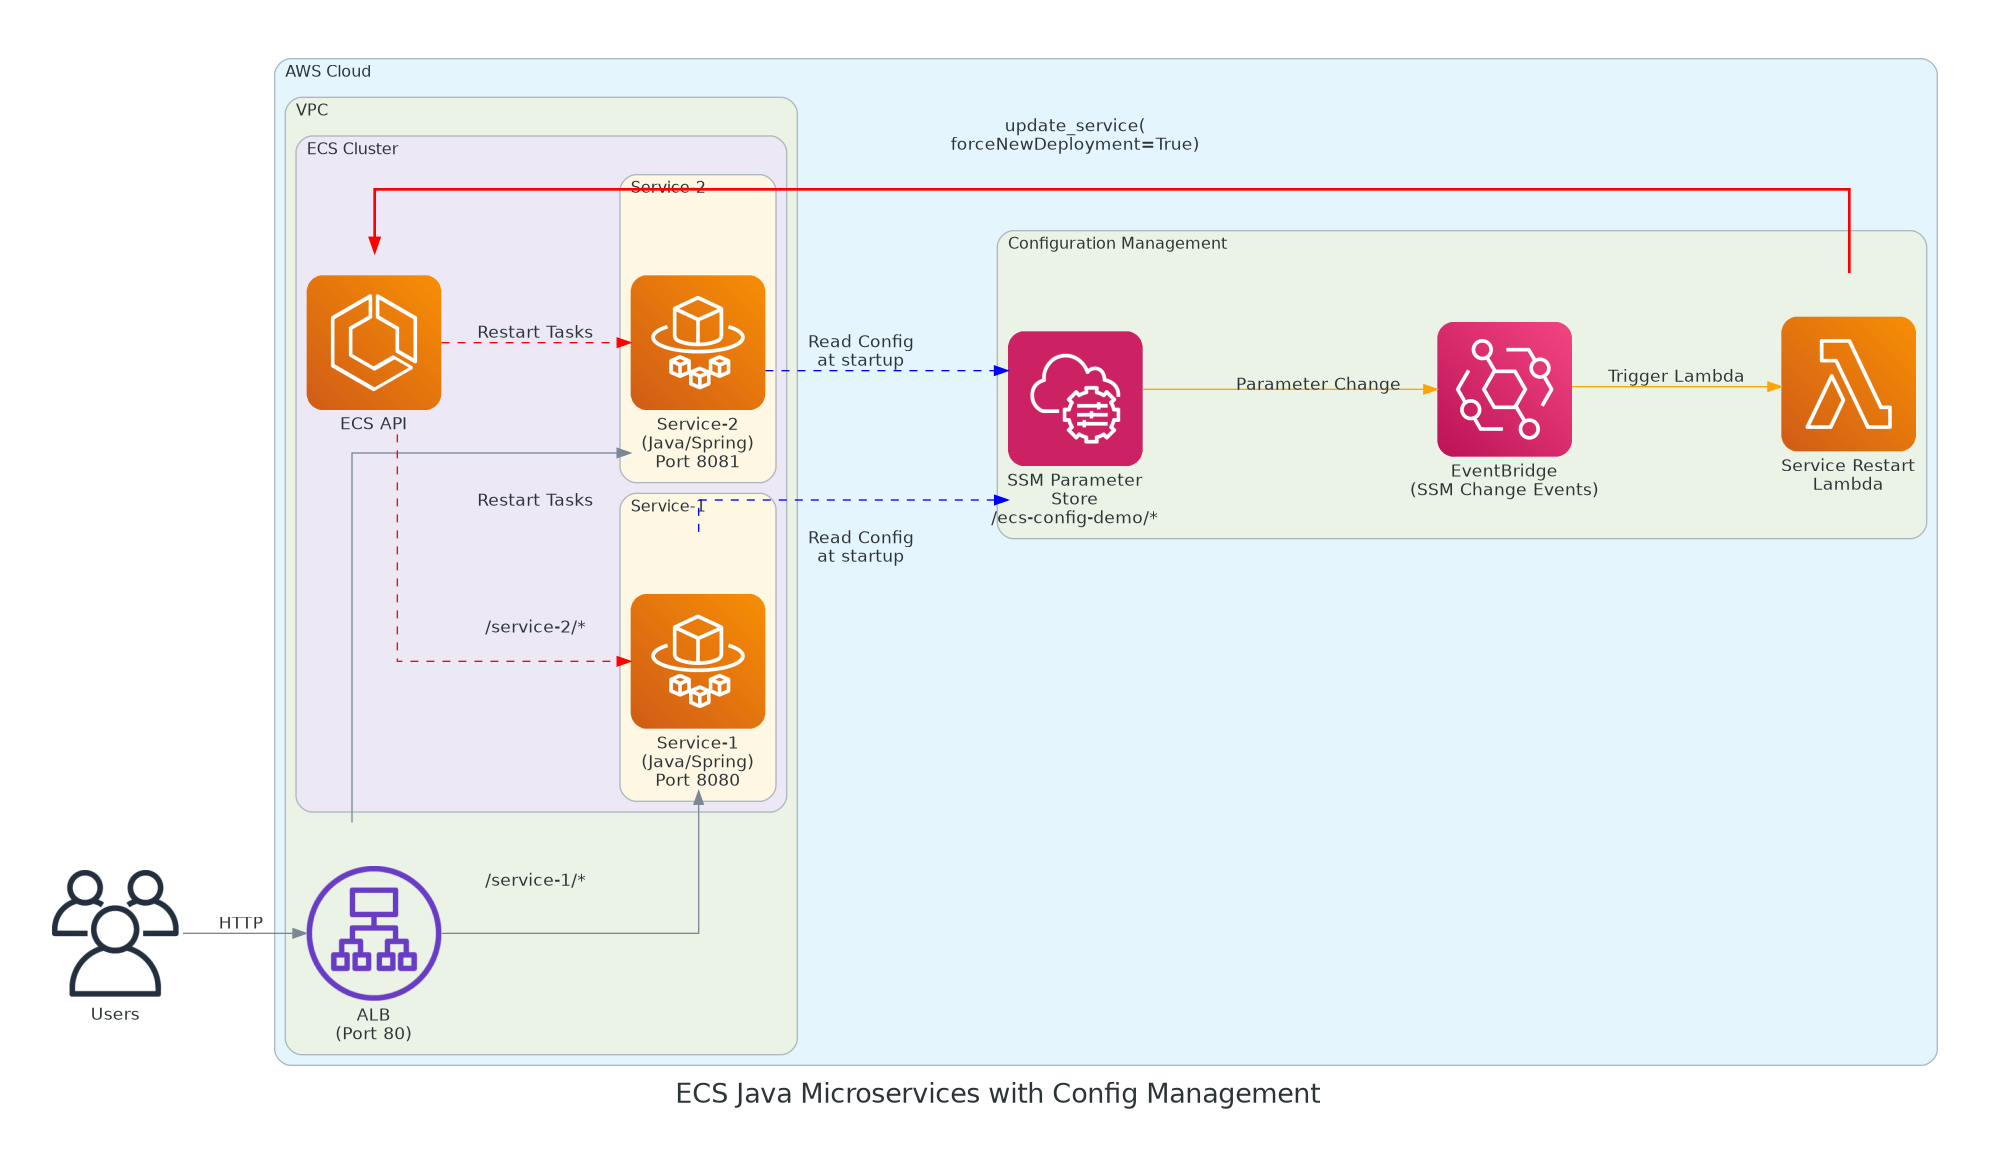
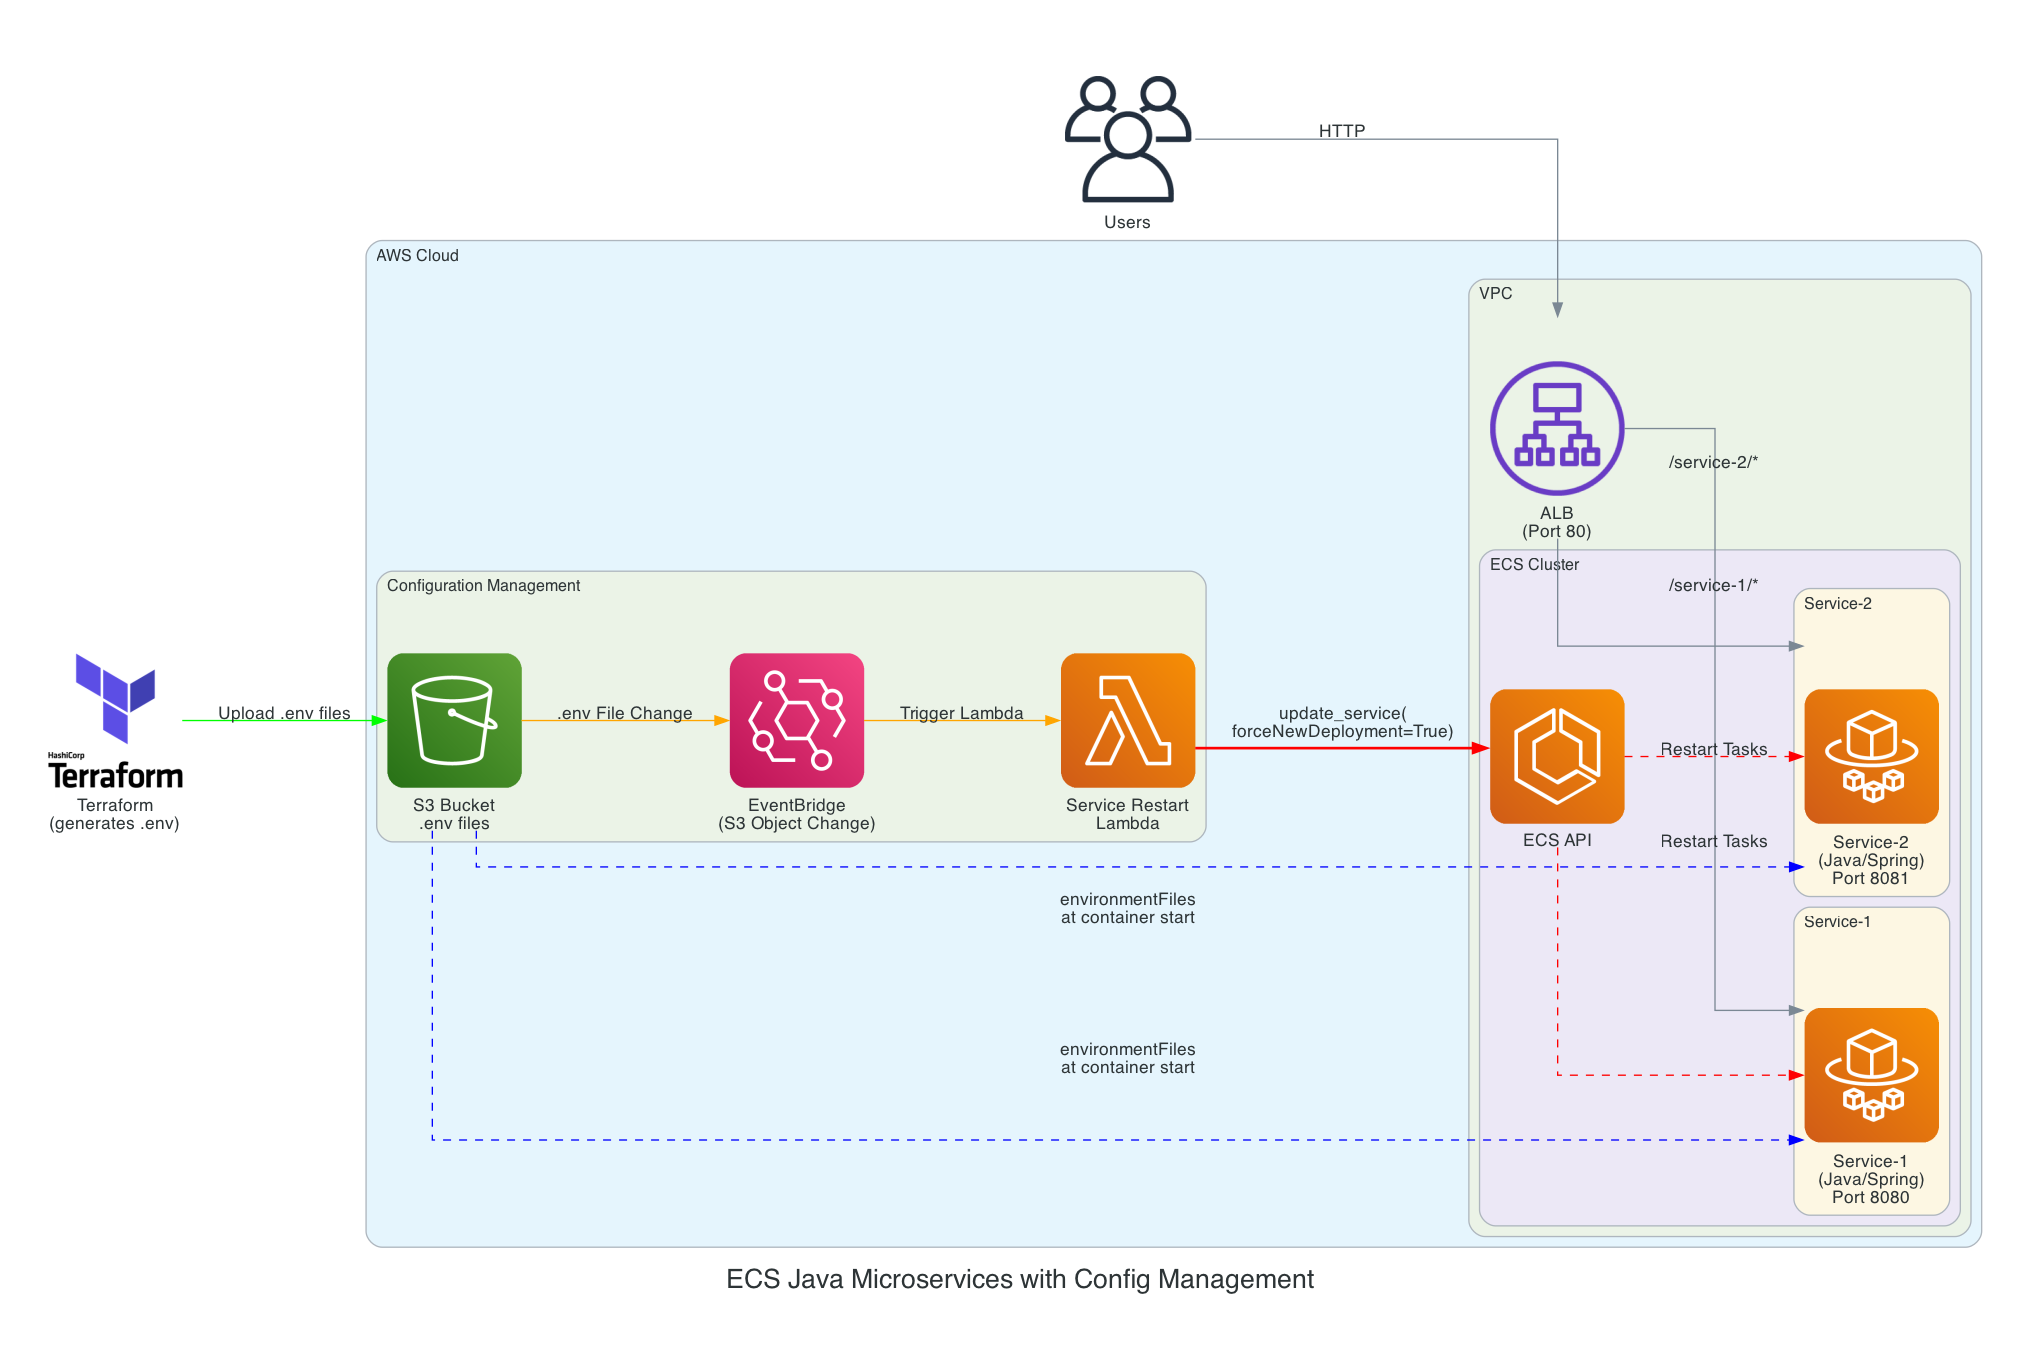
Update diagram to show env files usage

diff --git a/architecture_diagram.py b/architecture_diagram.py
@@ -1,9 +1,10 @@
 from diagrams import Diagram, Cluster, Edge
 from diagrams.aws.compute import Lambda, Fargate, ECS
 from diagrams.aws.network import ALB
-from diagrams.aws.management import SystemsManager
+from diagrams.aws.storage import S3
 from diagrams.aws.integration import Eventbridge
 from diagrams.aws.general import Users
+from diagrams.onprem.iac import Terraform
 
 # Graph attributes for better layout
 graph_attr = {
@@ -21,6 +22,7 @@ with Diagram(
     graph_attr=graph_attr,
 ):
     users = Users("Users")
+    terraform = Terraform("Terraform\n(generates .env)")
 
     with Cluster("AWS Cloud"):
         with Cluster("VPC"):
@@ -36,8 +38,8 @@ with Diagram(
                     service2 = Fargate("Service-2\n(Java/Spring)\nPort 8081")
 
         with Cluster("Configuration Management"):
-            ssm = SystemsManager("SSM Parameter\nStore\n/ecs-config-demo/*")
-            eventbridge = Eventbridge("EventBridge\n(SSM Change Events)")
+            s3 = S3("S3 Bucket\n.env files")
+            eventbridge = Eventbridge("EventBridge\n(S3 Object Change)")
             lambda_fn = Lambda("Service Restart\nLambda")
 
     # User traffic flow
@@ -45,12 +47,15 @@ with Diagram(
     alb >> Edge(label="/service-1/*") >> service1
     alb >> Edge(label="/service-2/*") >> service2
 
-    # SSM configuration flow
-    service1 >> Edge(label="Read Config\nat startup", style="dashed", color="blue") >> ssm
-    service2 >> Edge(label="Read Config\nat startup", style="dashed", color="blue") >> ssm
+    # Terraform uploads .env files to S3
+    terraform >> Edge(label="Upload .env files", color="green") >> s3
+
+    # S3 env file configuration flow
+    s3 >> Edge(label="environmentFiles\nat container start", style="dashed", color="blue") >> service1
+    s3 >> Edge(label="environmentFiles\nat container start", style="dashed", color="blue") >> service2
 
     # Config update flow - Lambda calls ECS API to restart services
-    ssm >> Edge(label="Parameter Change", color="orange") >> eventbridge
+    s3 >> Edge(label=".env File Change", color="orange") >> eventbridge
     eventbridge >> Edge(label="Trigger Lambda", color="orange") >> lambda_fn
     lambda_fn >> Edge(label="update_service(\nforceNewDeployment=True)", color="red", penwidth="2.0") >> ecs_api
     ecs_api >> Edge(label="Restart Tasks", color="red", style="dashed") >> service1
